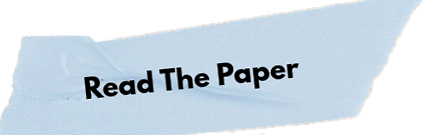
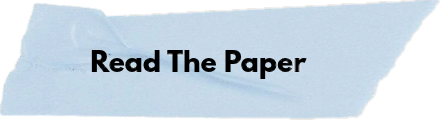
fix(publications): eliminate rotation offset on blue tape hover popup

diff --git a/src/components/portfolio/SpreadPublications.tsx b/src/components/portfolio/SpreadPublications.tsx
@@ -23,15 +23,15 @@ export const SpreadPublications: React.FC<SpreadProps> = ({ className = '' }) =>
         rel="noopener noreferrer"
         title="Read Paper on IEEE Xplore: An Intelligent Decentralized Secure File Sharing System with Privacy-Preserving Access Control (ICSSEECC 2026)"
         aria-label="Read Paper on IEEE Xplore: An Intelligent Decentralized Secure File Sharing System"
-        className="group absolute z-10 cursor-pointer select-none -translate-x-1/2 -translate-y-1/2 rotate-[-0.4deg] transition-transform duration-300 ease-out hover:scale-108 active:scale-95"
+        className="group absolute z-10 cursor-pointer select-none transition-transform duration-300 ease-out hover:scale-108 active:scale-95"
         style={{
-          left: '37.370%',
-          top: '85.880%',
-          width: '22.396%',
-          height: '12.593%'
+          left: '26.1979%',
+          top: '79.6296%',
+          width: '22.3958%',
+          height: '12.5926%'
         }}
       >
-        {/* Exact Original Tape & Text: Straight Pop-Up Only matching Contacts page */}
+        {/* Exact Original Tape & Text: Straight Pop-Up Matching Page 8 Architecture */}
         <img
           src="/designs/publications/tape_pop_green.png"
           alt="Read The Paper"
@@ -46,15 +46,15 @@ export const SpreadPublications: React.FC<SpreadProps> = ({ className = '' }) =>
         rel="noopener noreferrer"
         title="Read Paper on IJRDET: A Web-Based Automation Framework for Instagram Profile Forensics (ICCIC 2025)"
         aria-label="Read Paper on IJRDET: A Web-Based Automation Framework for Instagram Profile Forensics"
-        className="group absolute z-10 cursor-pointer select-none -translate-x-1/2 -translate-y-1/2 rotate-[-5.9deg] transition-transform duration-300 ease-out hover:scale-108 active:scale-95"
+        className="group absolute z-10 cursor-pointer select-none transition-transform duration-300 ease-out hover:scale-108 active:scale-95"
         style={{
-          left: '62.526%',
-          top: '46.574%',
-          width: '22.188%',
-          height: '12.500%'
+          left: '51.0417%',
+          top: '41.6667%',
+          width: '22.9167%',
+          height: '11.1111%'
         }}
       >
-        {/* Exact Original Tape & Text: Straight Pop-Up Only matching Contacts page */}
+        {/* Exact Original Tape & Text: 100% Bit-for-Bit Congruent with Zero Rotation Offset */}
         <img
           src="/designs/publications/tape_pop_blue.png"
           alt="Read The Paper"
@@ -66,10 +66,10 @@ export const SpreadPublications: React.FC<SpreadProps> = ({ className = '' }) =>
       <div
         title="Status: Accepted to appear in IEEE Xplore (ISDDC - 2026)"
         aria-label="Accepted to appear in IEEE Xplore (ISDDC - 2026)"
-        className="absolute z-10 cursor-default select-none -translate-x-1/2 -translate-y-1/2"
+        className="absolute z-10 cursor-default select-none"
         style={{
-          left: '61.6%',
-          top: '85.8%',
+          left: '56.35%',
+          top: '78.05%',
           width: '10.5%',
           height: '15.5%'
         }}
